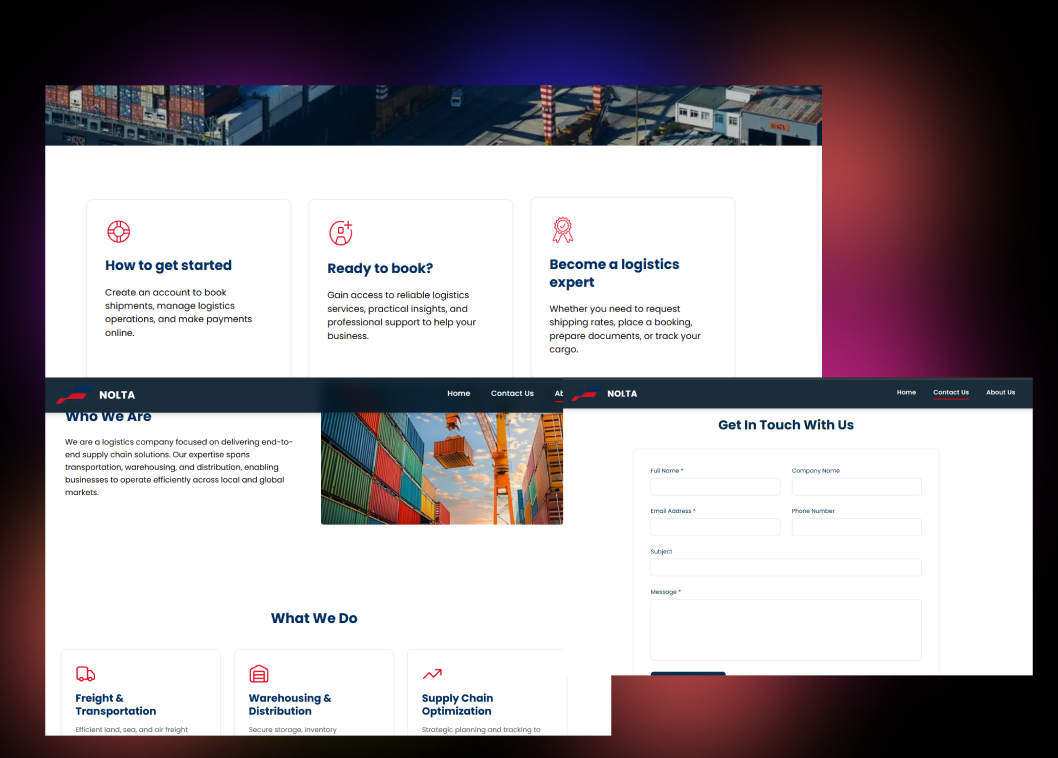
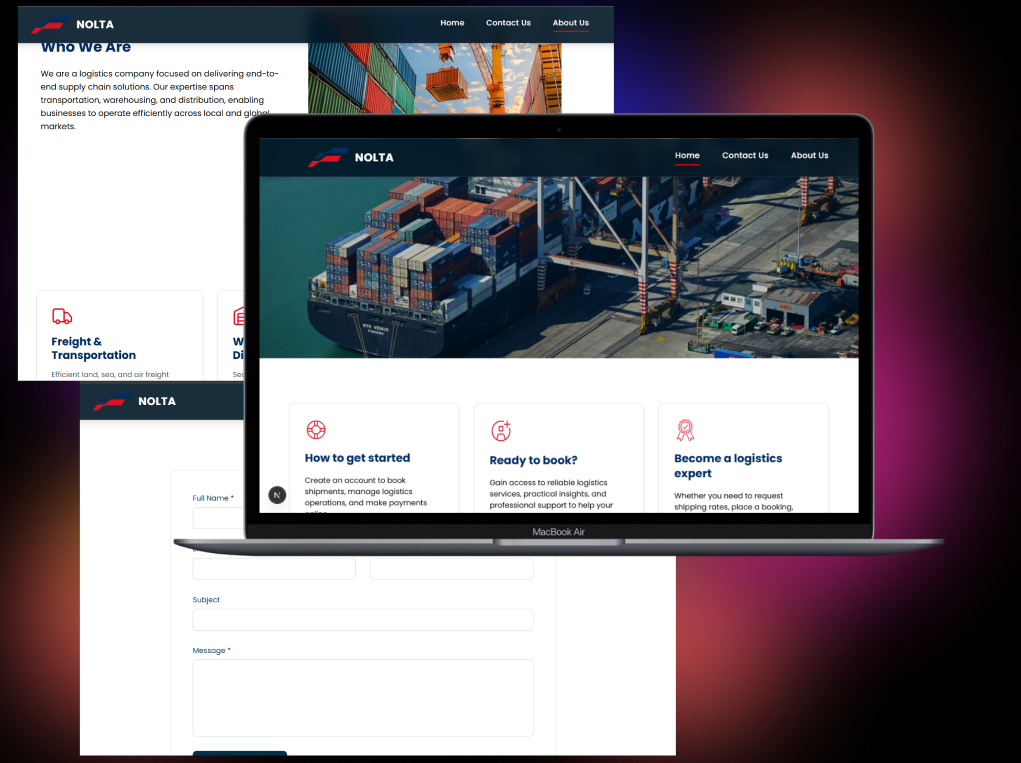
update gambar dkk

diff --git a/src/components/sections/AboutMe.tsx b/src/components/sections/AboutMe.tsx
@@ -5,18 +5,18 @@ export default function AboutMe() {
   return (
     <section id="about" className="py-24 border-t border-white/10">
       <div className="container mx-auto px-6 lg:px-12 flex flex-col items-start max-w-[1360px]">
-        
+
         <div className="flex flex-col justify-start items-start gap-12 w-full lg:max-w-[896px]">
           {/* Title */}
           <h2 className="text-white text-4xl lg:text-5xl font-extrabold leading-tight lg:leading-[72px]">
             About Me
           </h2>
-          
+
           {/* Description */}
           <p className="text-neutral-400 text-base lg:text-lg font-normal leading-relaxed lg:leading-7">
             {aboutMe.text}
           </p>
-          
+
           {/* Stats */}
           <div className="flex flex-wrap items-center gap-8 lg:gap-16 w-full">
             <div className="flex flex-wrap justify-start items-start gap-8 lg:gap-12">
@@ -33,20 +33,20 @@ export default function AboutMe() {
             </div>
 
             {/* Download CV Button */}
-            <a 
-              href="/cv.pdf" 
+            <a
+              href="/documentation/resume_naufal.pdf"
               download
               className="flex items-center gap-3 bg-white text-black px-8 py-3 rounded-full font-bold text-sm lg:text-base hover:bg-neutral-200 transition-colors group mt-4 lg:mt-0"
             >
               Download CV
-              <svg 
-                width="20" 
-                height="20" 
-                viewBox="0 0 24 24" 
-                fill="none" 
-                stroke="currentColor" 
-                strokeWidth="2.5" 
-                strokeLinecap="round" 
+              <svg
+                width="20"
+                height="20"
+                viewBox="0 0 24 24"
+                fill="none"
+                stroke="currentColor"
+                strokeWidth="2.5"
+                strokeLinecap="round"
                 strokeLinejoin="round"
                 className="group-hover:translate-y-0.5 transition-transform"
               >

diff --git a/src/data/index.ts b/src/data/index.ts
@@ -133,12 +133,12 @@ export const projects = [
     techStack: ["Flutter", "Dart", "Appwrite", "Figma"],
     link: "https://meetandfight.vercel.app/",
     images: [
-      "/project/ai-recognition-1.jpg",
-      "/project/ai-recognition-2.jpg",
-      "/project/ai-recognition-3.jpg"
+      "/project/project4/might1.png",
+      "/project/project4/might2.png",
+      "/project/project4/might4.png"
     ],
     documentation: "/documentation/MEET.pdf",
-    coverImage: "/project/project4/cover.png"
+    coverImage: "/project/project4/might.png"
   },
   {
     id: 5,
@@ -148,9 +148,9 @@ export const projects = [
     techStack: ["Next.js", "TypeScript", "Tailwind CSS", "Figma", "LLM Integration"],
     link: "https://e-learning-softeng-project.vercel.app/",
     images: [
-      "/project/ai-recognition-1.jpg",
-      "/project/ai-recognition-2.jpg",
-      "/project/ai-recognition-3.jpg"
+      "/project/project5/level1.mp4",
+      "/project/project5/level2.png",
+      "/project/project5/level3.png"
     ],
     documentation: "/documentation/software engineering.pdf",
     coverImage: "/project/project5/cover.png"
@@ -177,11 +177,11 @@ export const projects = [
     techStack: ["Next.js", "Typescript", "pyhton", "figma",],
     link: "https://github.com/nopall-png/Roadmap-ai",
     images: [
-      "/project/ai-recognition-1.jpg",
-      "/project/ai-recognition-2.jpg",
-      "/project/ai-recognition-3.jpg"
+      "/project/project7/roadmap1.mp4",
+      "/project/project7/roadmap2.png",
+      "/project/project7/roadmap3.png"
     ],
-    documentation: "/documentation/ReportProjectAI  .pdf",
+    documentation: "/documentation/ReportProjectAI.pdf",
     coverImage: "/project/project7/cover.png"
   },
   {